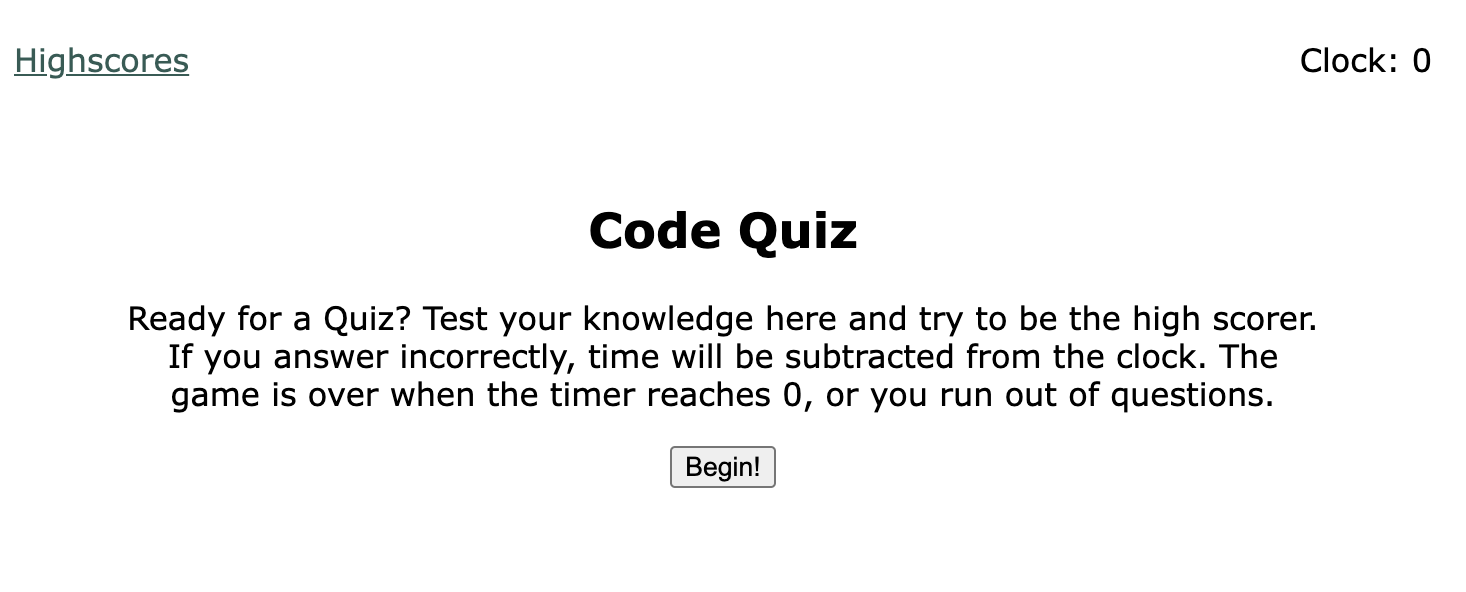
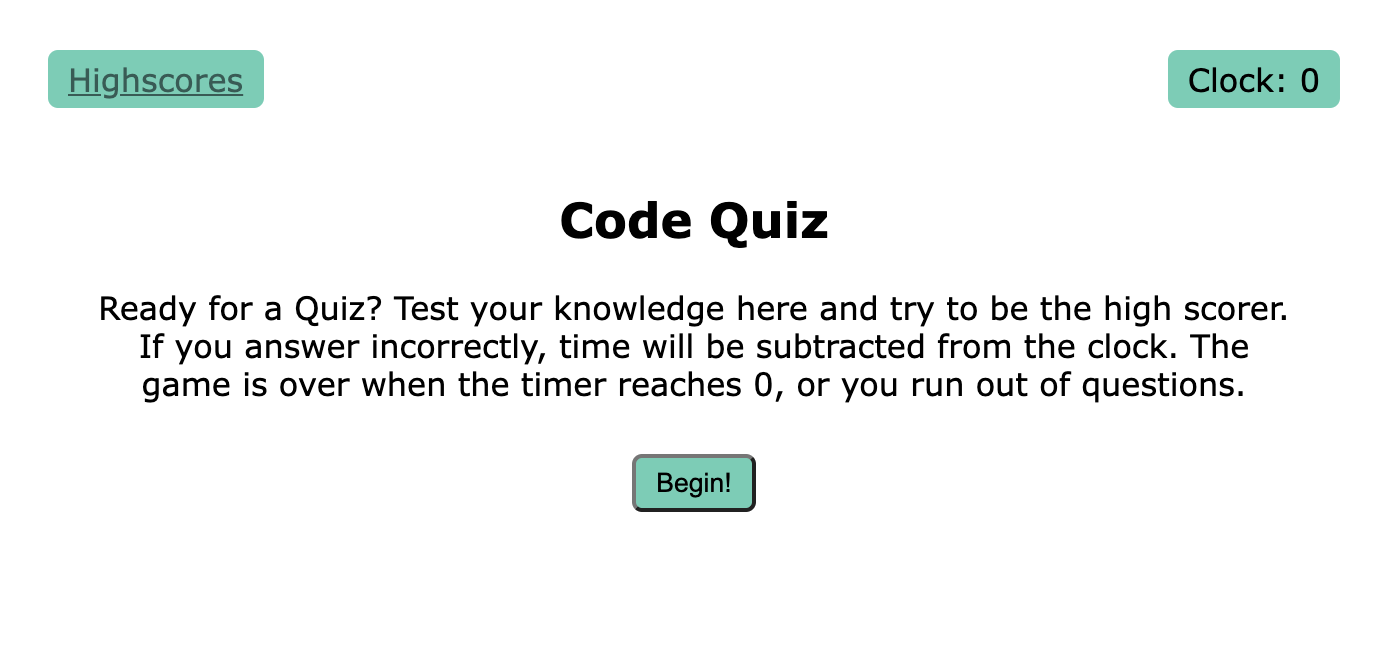
Cleaned up readme

Changed region(s): [[0.0624, 0.3041, 0.9361, 0.8514], [0.0, 0.0608, 0.2184, 0.1824], [0.8425, 0.0608, 0.9985, 0.1824]]

diff --git a/assets/css/styles.css b/assets/css/styles.css
@@ -8,7 +8,7 @@ a {
 }
 
 a:hover {
-    color: #4B9C8F;
+    color: white;
 }
 
 .container {
@@ -24,18 +24,43 @@ a:hover {
     text-align: center;
 }
 
+/* .wrapper {
+    text-align: center;
+} */
+
 .scores {
     position: absolute;
     top: 20px;
     left: 20px;
+    border-radius: 10px;
+    background-color: #58cfb5;
+    border-radius: 5px;
+    padding: 5px 10px;
+    color: black;
+    margin: 10px;
 }
 
 .timer {
     position: absolute;
     top: 20px;
     right: 20px;
+    border-radius: 10px;
+    background-color: #58cfb5;
+    border-radius: 5px;
+    padding: 5px 10px;
+    color: black;
+    margin: 10px;
 }
 
 .choices button {
     display: block;
-  }
+}
+
+button {
+    border-radius: 10px;
+    background-color: #58cfb5;
+    border-radius: 5px;
+    padding: 5px 10px;
+    color: black;
+    margin: 10px;
+ }
